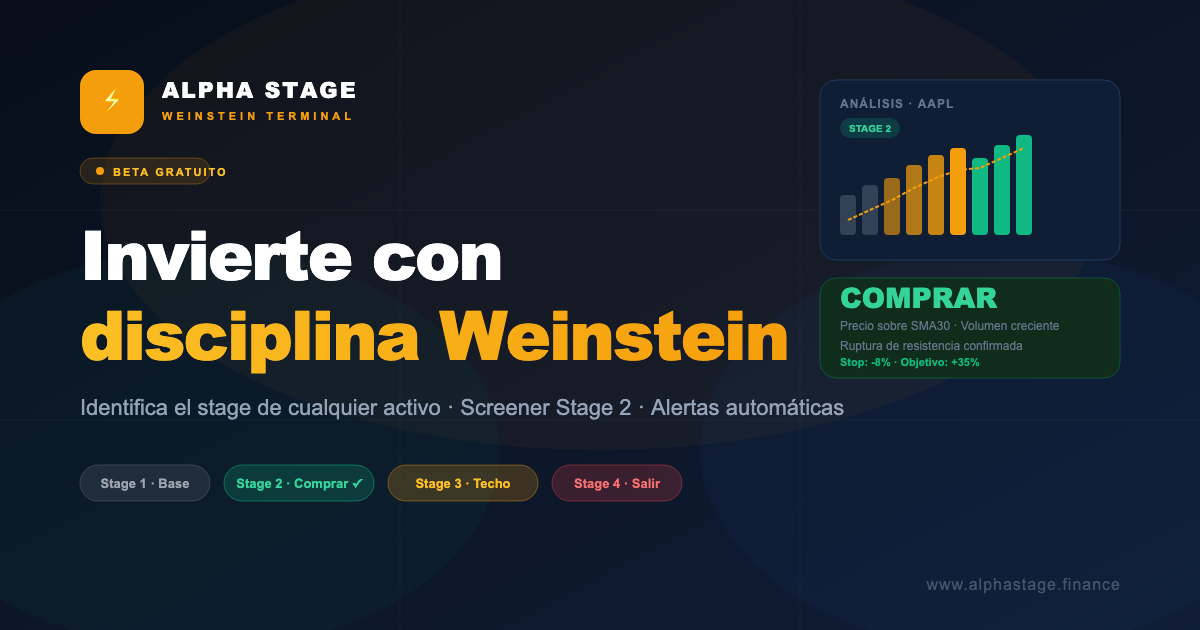
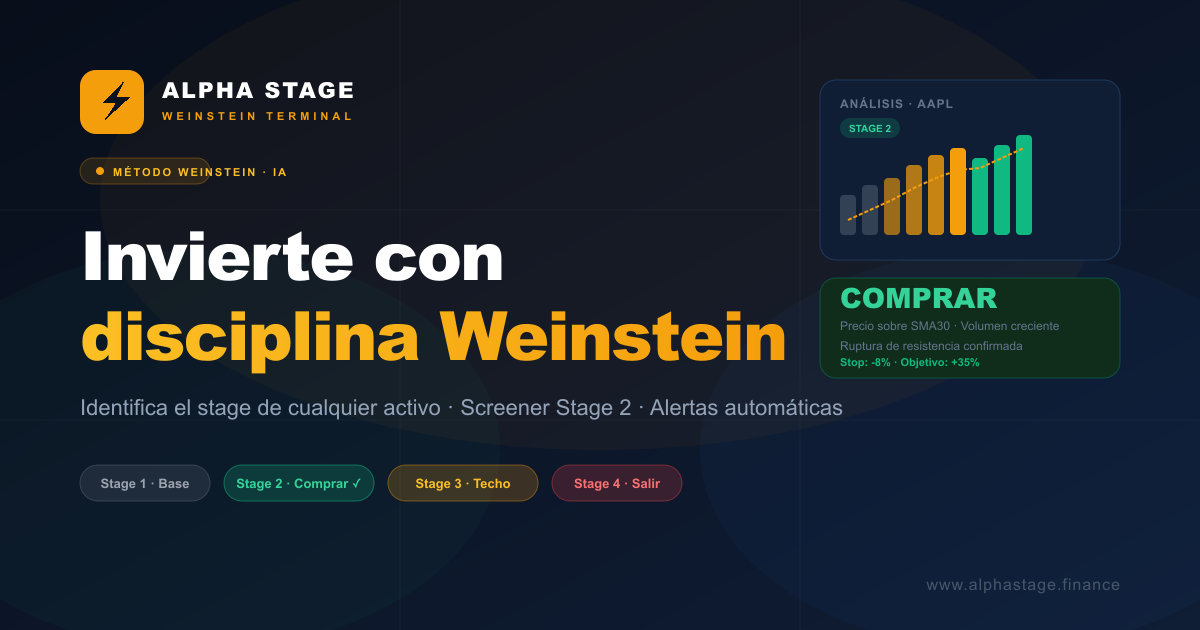
fix: remove all beta copy from meta tags and og-image
- index.html: remove 'gratis durante el beta' from description and og:description
- og-image.svg/png: 'BETA GRATUITO' → 'MÉTODO WEINSTEIN · IA'

diff --git a/index.html b/index.html
@@ -16,7 +16,7 @@
     <meta name="apple-mobile-web-app-title" content="Alpha Stage" />
     <!-- SEO -->
     <title>Alpha Stage Terminal — Invierte con disciplina Weinstein</title>
-    <meta name="description" content="Terminal de análisis técnico que identifica el stage de cualquier activo con el método Stan Weinstein. Screener Stage 2, alertas automáticas, cartera IA e informe semanal. 100% gratis durante el beta." />
+    <meta name="description" content="Terminal de análisis técnico que identifica el stage de cualquier activo con el método Stan Weinstein. Screener Stage 2, alertas automáticas, cartera IA e informe fundamental completo." />
     <meta name="keywords" content="método Weinstein, análisis técnico, stage 2, screener bursátil, SMA30, análisis de acciones, inversión en bolsa" />
     <meta name="robots" content="index, follow" />
     <meta name="google-site-verification" content="google097529e9db425912" />
@@ -25,7 +25,7 @@
     <meta property="og:type" content="website" />
     <meta property="og:url" content="https://www.alphastage.finance" />
     <meta property="og:title" content="Alpha Stage Terminal — Invierte con disciplina Weinstein" />
-    <meta property="og:description" content="Identifica automáticamente el stage de cualquier activo. Screener Stage 2, alertas técnicas e informe semanal de mercado. Gratis durante el beta." />
+    <meta property="og:description" content="Identifica automáticamente el stage de cualquier activo. Screener Stage 2, alertas técnicas, informe fundamental IA y cartera Weinstein. Empieza gratis." />
     <meta property="og:image" content="https://www.alphastage.finance/og-image.png" />
     <meta property="og:image:width" content="1200" />
     <meta property="og:image:height" content="630" />
